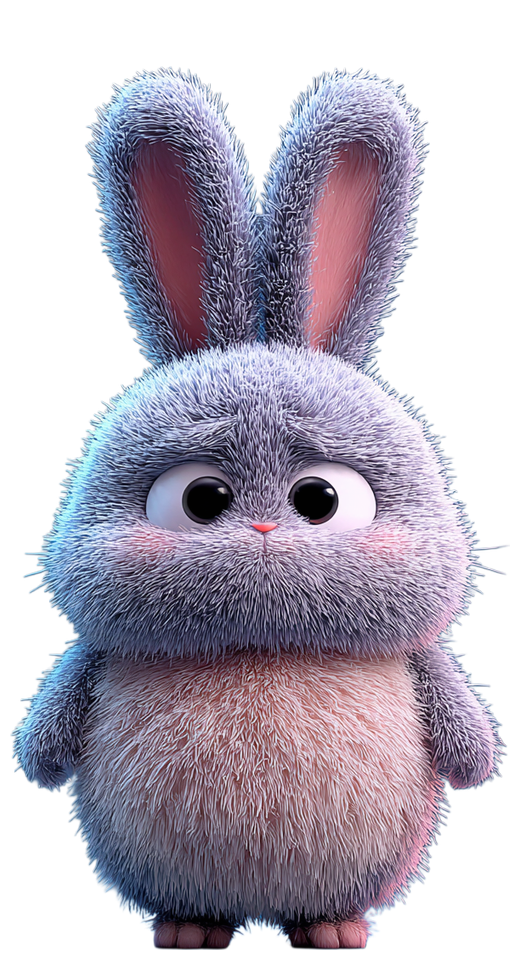
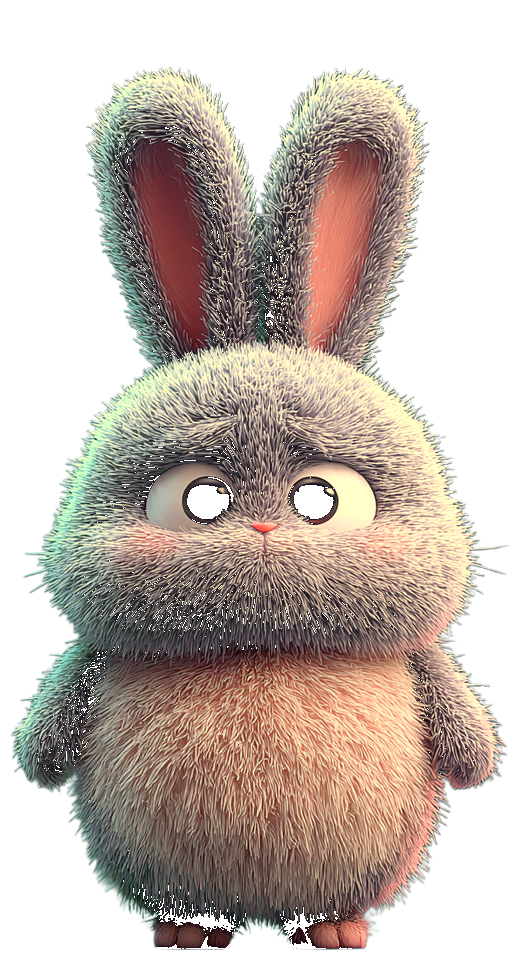
fix: 토끼 이미지 업데이트 — 10종 교체 + 4종 확대 + 도감 글씨 크기
- rabbit 1,5,21,33,56,62,65,66,71,74: 이미지 교체 + thumb 갱신
- rabbit 5,7,33,69: 110% 확대 (캐릭터가 작게 보이는 문제)
- 도감 보유 집사 부모/N대 라벨 text-xs → text-sm

diff --git a/components/home/RabbitDogam.tsx b/components/home/RabbitDogam.tsx
@@ -254,9 +254,9 @@ function ButlerList({
   const renderEntry = (d: { userId: string; nickname: string; discoveryOrder: number }) => (
     <div key={d.userId} className="flex items-baseline gap-1.5">
       {d.discoveryOrder === 1 ? (
-        <span className="text-xs font-bold text-[#D4AF37] shrink-0">부모</span>
+        <span className="text-sm font-bold text-[#D4AF37] shrink-0">부모</span>
       ) : (
-        <span className="text-xs font-bold text-white/50 shrink-0">
+        <span className="text-sm font-bold text-white/50 shrink-0">
           {d.discoveryOrder - 1}대
         </span>
       )}
